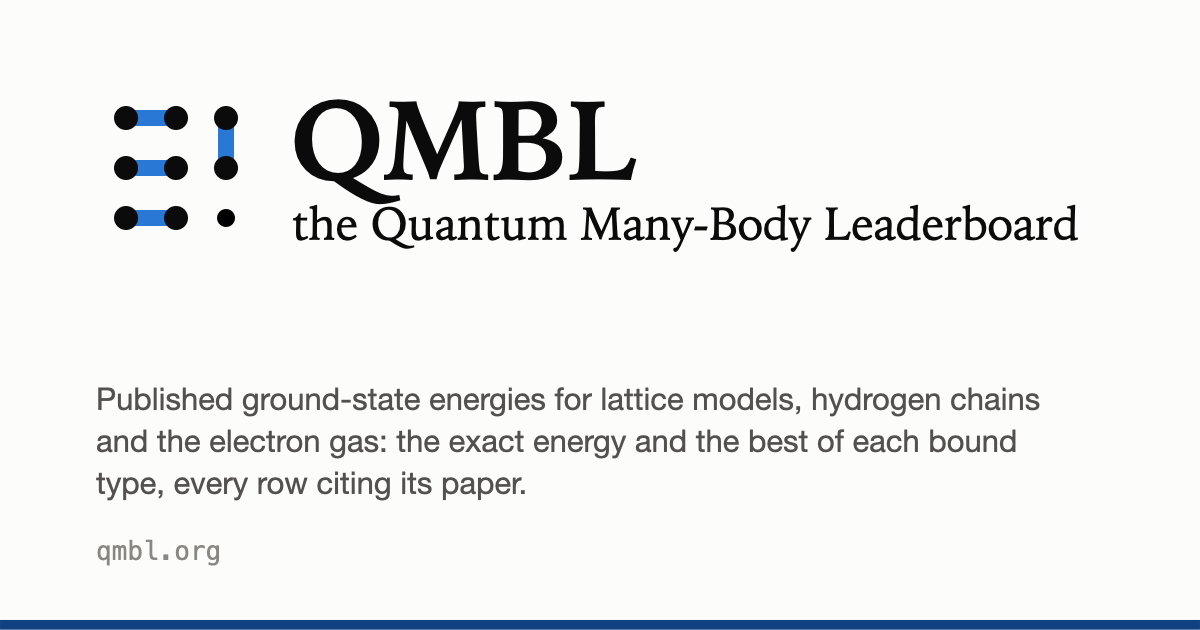
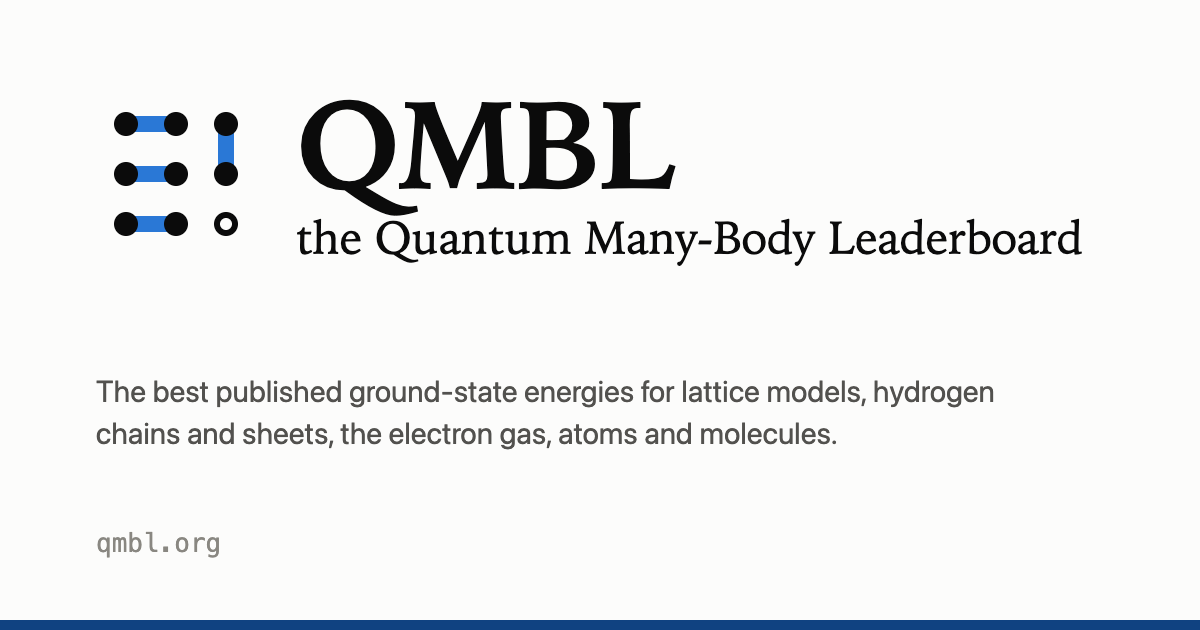
Scope line names atoms and molecules; new link-preview card
- README, CITATION.cff, .zenodo.json, llms.txt and the Hugging Face card list
  lattice models, hydrogen chains and sheets, the electron gas, atoms and molecules.
- scripts/assets/og.png re-rendered with that sentence; scripts/og.mjs writes the
  card as a page and documents the headless-browser command that renders it.
- The Table page's link-preview title is the site name, so instance links
  (#anchors on the Table) no longer preview as "Table · QMBL".

diff --git a/scripts/assets/hf-README.md b/scripts/assets/hf-README.md
@@ -23,7 +23,7 @@ configs:
 
 # QMBL: the Quantum Many-Body Leaderboard
 
-Published ground-state energies for finite quantum many-body systems: lattice models (Heisenberg, J1-J2, Hubbard, t-J, t-V, Shastry-Sutherland, Kitaev, transverse-field Ising, impurity models), hydrogen chains and sheets, and the 2D and 3D homogeneous electron gas. Every energy cites the primary paper that produced it.
+Published ground-state energies for finite quantum many-body systems: lattice models (Heisenberg, J1-J2, Hubbard, t-J, t-V, Shastry-Sutherland, Kitaev, transverse-field Ising, impurity models), hydrogen chains and sheets, the 2D and 3D homogeneous electron gas, atoms and molecules. Every energy cites the primary paper that produced it.
 
 This is a mirror of the data on [qmbl.org](https://qmbl.org/). The source of truth is the [GitHub repository](https://github.com/quantum-many-body-leaderboard/quantum-many-body-leaderboard); each release is archived on Zenodo, [doi:10.5281/zenodo.22753734](https://doi.org/10.5281/zenodo.22753734).
 

diff --git a/README.md b/README.md
@@ -7,7 +7,7 @@
 [![License: Apache 2.0](https://img.shields.io/badge/license-Apache--2.0-blue)](LICENSE)
 [![agents: API · MCP](https://img.shields.io/badge/agents-API%20%C2%B7%20MCP-8A2BE2)](#use-qmbl-with-your-agent)
 
-**A live record of SOTA published ground-state energies for lattice models, hydrogen chains and the electron gas.**
+**A live record of SOTA published ground-state energies for lattice models, hydrogen chains and sheets, the electron gas, atoms and molecules.**
 
 Organised literature for fellow researchers and AI systems. So that we can see the works of the wider research community at one glance, build on each other's work more efficiently and advance frontier science together.
 
